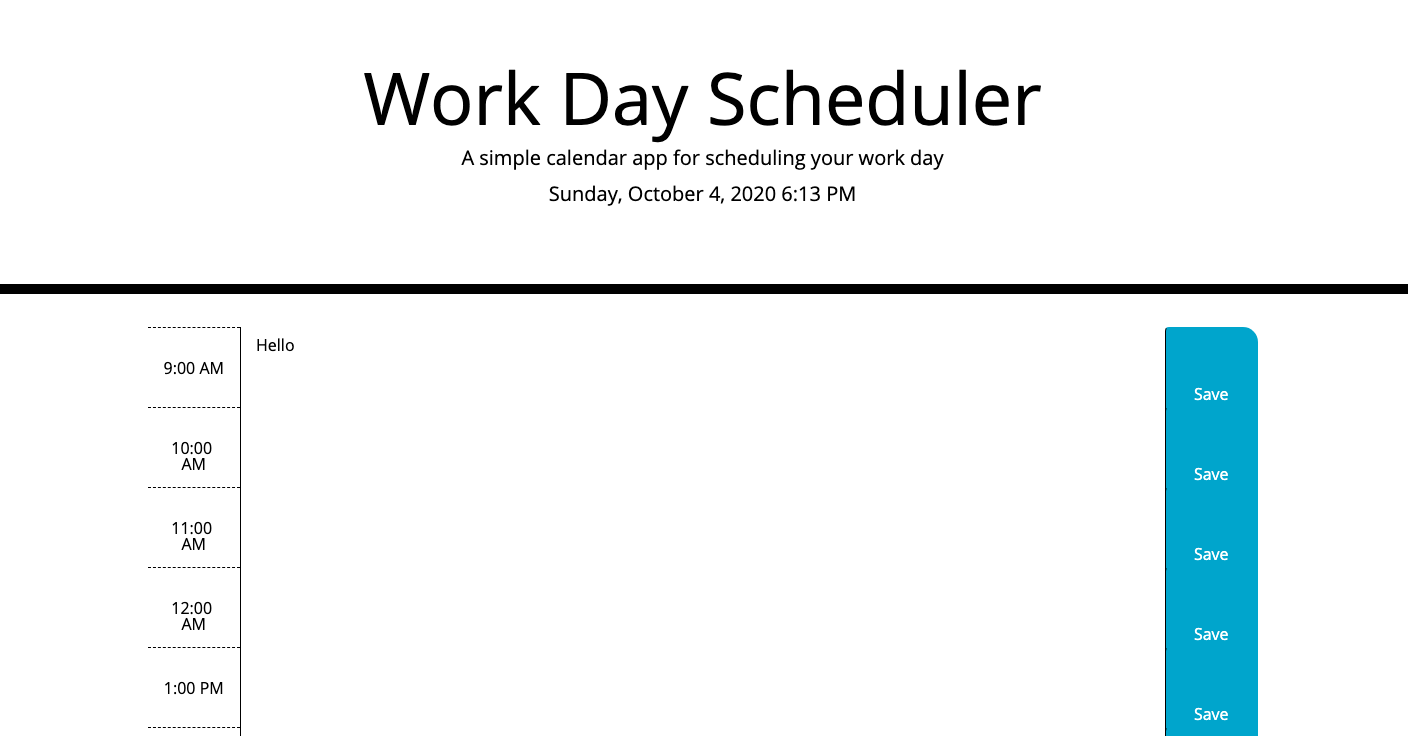
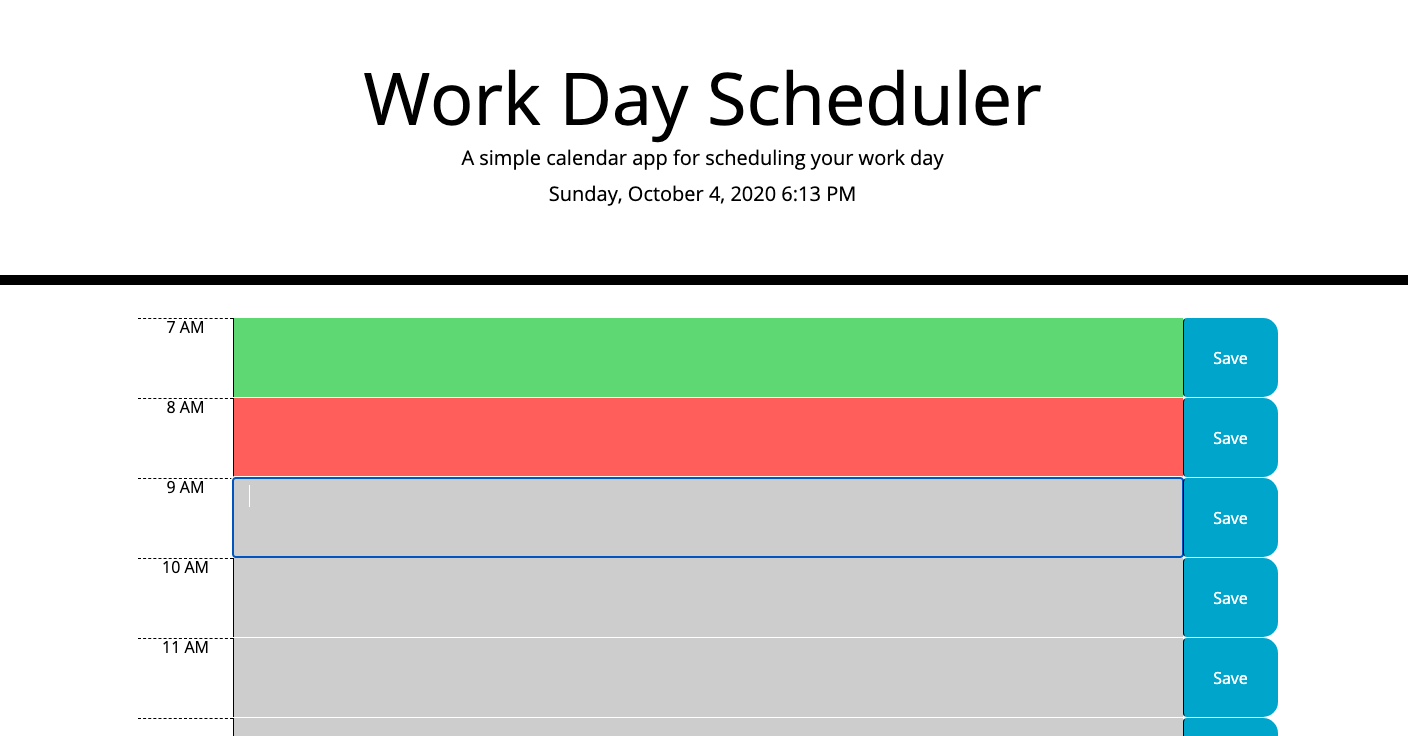
didnt commit changes

diff --git a/script.js b/script.js
@@ -12,9 +12,9 @@ $(document).ready(function(){
     // //set items in local storage. resource:https://developer.mozilla.org/en-US/docs/Web/JavaScript/Reference/Global_Objects/Object/keys
         var inputdata = Object.keys(localStorage);
         for (var i = 0; i < timeArr.length; i++) {
-            // var userinput = localStorage.getItem(inputdata[i]);
-            // var savetostorage = $("#" + inputdata[i]).find("textarea")
-            // savetostorage.val(userinput);
+            var userinput = localStorage.getItem(inputdata[i]);
+            var savetostorage = $("#" + inputdata[i]).find("textarea")
+            savetostorage.val(userinput);
 
             /*
             <div class="row time-block">
@@ -38,7 +38,10 @@ $(document).ready(function(){
             //AM : less than 12: timeArr[i]+AM 
             if(timeArr[i]<12){
                 d2.text(timeArr[i]+" AM");
-            }            //PM: greater than 12 : timeArr[i]-12=x PM:
+            }            
+            //empty row needs to be gray if time past, green if free, red if busy (toggle fx?)
+    //Color coding schedule dependant upon hour
+            //PM: greater than 12 : timeArr[i]-12=x PM:
             //if 12 : 12PM
             var textarea=$("<textarea>");
             var btn=$("<button>");
@@ -79,18 +82,20 @@ $(document).ready(function(){
             $(".container").append(d1);
         }
         // stop save button from submitting form to save data to text input area
+         //Assign saveBtn click listener for user input and time stamp??
+
         $(".saveBtn").on("click", function (e) {
             e.preventDefault();
-             console.log($(this).attr("id"));
+            //  console.log($(this).attr("id"));
             // console.log($(this).parent().children()[1]);
-             var userinput=$(this).parent().children()[1].attr("value");
-             console.log(userinput)
+            //  var userinput=$(this).parent().children()[1].attr("value");
+            //  console.log(userinput)
             //trigger
             //grab vals
             //set to ls
+            
             // var userinput = $(this).siblings(".taskdata").val();
             // var savetostorage = $(this).parent().attr("id");
-    
             // localStorage.setItem(savetostorage, userinput);
         });
 
@@ -98,19 +103,4 @@ $(document).ready(function(){
     
     
     });
-//create fx that will input times into first col of the table from moment needs to repeat for every row
-    //Color coding schedule dependant upon hour
-    //Need to find amount of hours
-    //Create a loop to input time into time column/ind.row
-    //if then statement for past/present, probably input an interval timer here to update appearance of calendar
-
-//create text input fx that will save to local storage in middle col  needs to repeat for every row
-    //Rendering stored inputs after page refresh
- //Assign saveBtn click listener for user input and time stamp??
-    // alert('Button clicked!');
-
-    // //set items in local storage.
-    // localStorage.setItem(time, text);
-//empty row needs to be gray if time past, green if free, red if busy (toggle fx?)
-    //Color coding schedule dependant upon hour
 

diff --git a/index.html b/index.html
@@ -32,7 +32,7 @@
     <div class="container" id="scheduler">
       <!-- Timeblocks go here -->
             <!-- Create a one row, three column spread for layout using bootstrap. left col will be time from moment api,  middle col will be an input value, right will be a save btn, OR a table layout  -->
-               <!--convert to dynamically styled <div id="time1" class="time-block row row1">
+               <!-- <!--convert to dynamically styled <div id="time1" class="time-block row row1">
                 <div class="col-md-1 hour">
                   9:00 AM
                 </div>
@@ -41,7 +41,7 @@
                 <button class="btn saveBtn col-md-1">
                   Save
                 </button>
-              </div>
+              </div> -->
         
     </div>
 
